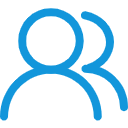
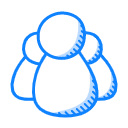
style: 优化默认头像

diff --git a/src/views/chat/components/MessageItem.vue b/src/views/chat/components/MessageItem.vue
@@ -3,7 +3,7 @@
     <div class="from-name">{{fromName}}</div>
     <div class="c-frame" :class="{'self-c':message.isMyself,'other-c':!message.isMyself}">
       <div class="avatar" v-if="!message.isMyself">
-        <img :src="csHead" />
+        <img :src="friendHead" />
       </div>
       <div class="container">
         <div class="container-text" v-if="message.body.type==='text'" v-html="message.body.msg"></div>
@@ -21,7 +21,7 @@
         </div>
       </div>
       <div class="avatar" v-if="message.isMyself">
-        <img :src="defaultUser" />
+        <img :src="userInfo.photo" />
       </div>
     </div>
   </div>
@@ -30,7 +30,7 @@
 <script>
 import { mapGetters, mapMutations } from 'vuex';
 // import { BizLocationMap } from '@/components/hy-location';
-import defaultUser from '@/assets/images/default.png';
+import defaultUser from '@/assets/images/head.png';
 import Xgplayer from 'xgplayer-vue';
 
 export default {
@@ -136,14 +136,17 @@ export default {
         url: this.message.body.url
       };
     },
-    csHead() {
-      if (this.message.isMyself && this.userInfo.photo) {
-        return this.userInfo.photo;
-      }
+    friendHead() {
       if (this.fromUserInfo.photo) {
         return this.fromUserInfo.photo;
       }
 
+      return this.defaultUser;
+    },
+    myselfHead() {
+      if (this.userInfo.photo) {
+        return this.userInfo.photo;
+      }
       return this.defaultUser;
     }
   },

diff --git a/src/views/mail-list/compenents/MailItem.vue b/src/views/mail-list/compenents/MailItem.vue
@@ -1,7 +1,7 @@
 <template>
   <div class="mail-item" @click="enter">
     <div class="avatar">
-      <img :src="mail.userInfo.photo" />
+      <img :src="head" />
     </div>
     <div class="name">{{mail.userInfo.nickname}}</div>
   </div>
@@ -9,6 +9,7 @@
 
 <script>
 import { mapMutations } from 'vuex';
+import defaultHead from '@/assets/images/head.png';
 
 export default {
   name: 'mail-item',
@@ -17,9 +18,15 @@ export default {
     mail: Object
   },
   data() {
-    return {};
+    return {
+      defaultHead: defaultHead
+    };
   },
-  computed: {},
+  computed: {
+    head() {
+      return this.mail.userInfo.photo || this.defaultHead;
+    }
+  },
   watch: {},
   created() {},
   methods: {

diff --git a/src/views/mail-list/compenents/GroupItem.vue b/src/views/mail-list/compenents/GroupItem.vue
@@ -1,13 +1,15 @@
 <template>
   <div class="group-item">
     <div class="avatar">
-      <img :src="group.photo" />
+      <img :src="head" />
     </div>
     <div class="name">{{group.name}}</div>
   </div>
 </template>
 
 <script>
+import defaultGroup from '@/assets/images/group.png';
+
 export default {
   name: 'group-conversation-item',
   components: {},
@@ -15,9 +17,15 @@ export default {
     group: Object
   },
   data() {
-    return {};
+    return {
+      defaultGroup: defaultGroup
+    };
   },
-  computed: {},
+  computed: {
+    head() {
+      return this.group.ptoto || this.defaultGroup;
+    }
+  },
   watch: {},
   created() {},
   methods: {}

diff --git a/src/views/chat/components/ConversationItem.vue b/src/views/chat/components/ConversationItem.vue
@@ -38,7 +38,13 @@ export default {
   },
   computed: {
     head() {
-      return this.conversation.info.photo || (this.conversation.type === 'chat' ? this.defaultHead : this.defaultGroup);
+      if (this.conversation.type === 'chat' && this.conversation.target.userInfo.photo) {
+        return this.conversation.target.userInfo.photo;
+      }
+      if (this.conversation.type === 'group' && this.conversation.target.photo) {
+        return this.conversation.target.photo;
+      }
+      return this.conversation.type === 'chat' ? this.defaultHead : this.defaultGroup;
     },
     lastMessage() {
       let lastMessage = null;
